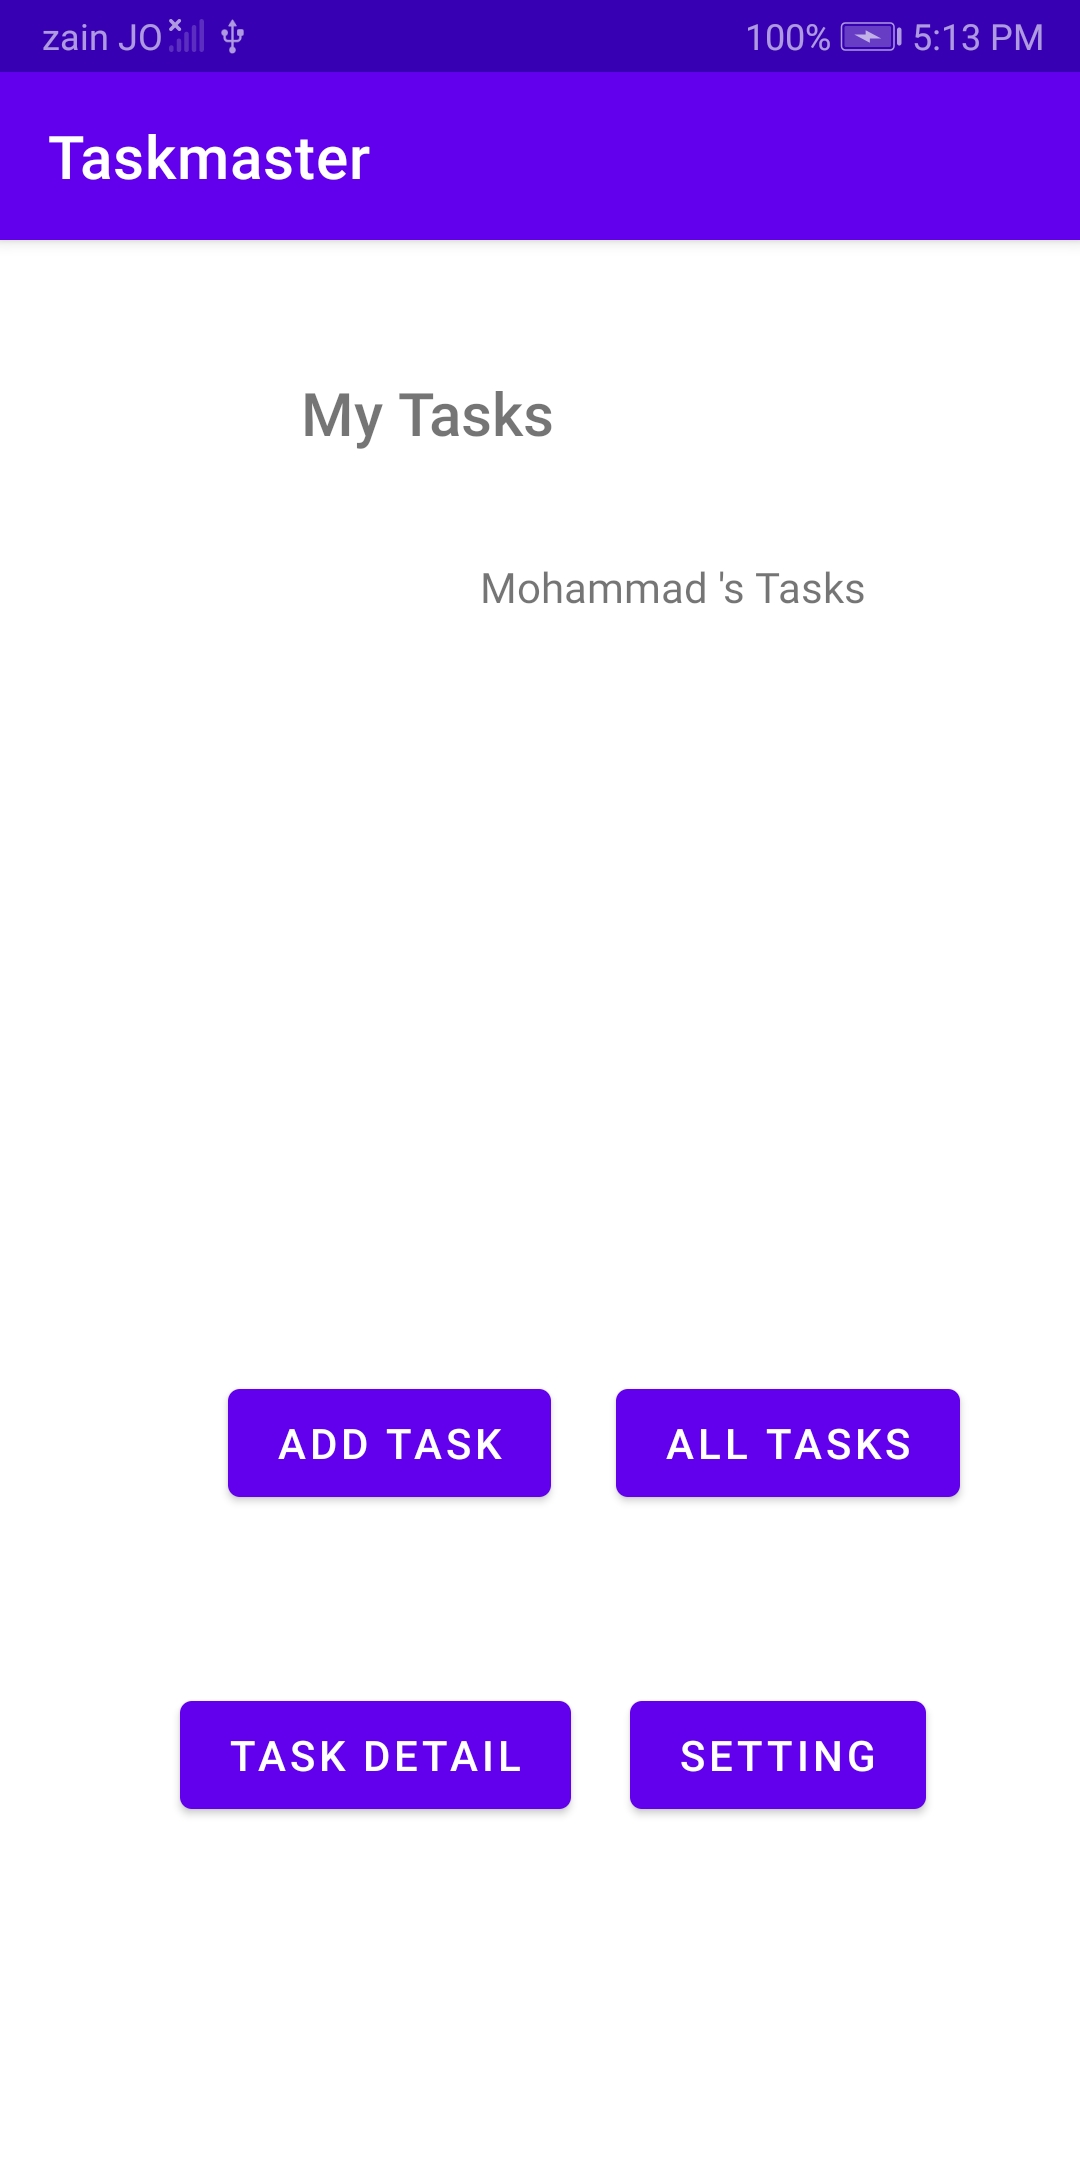
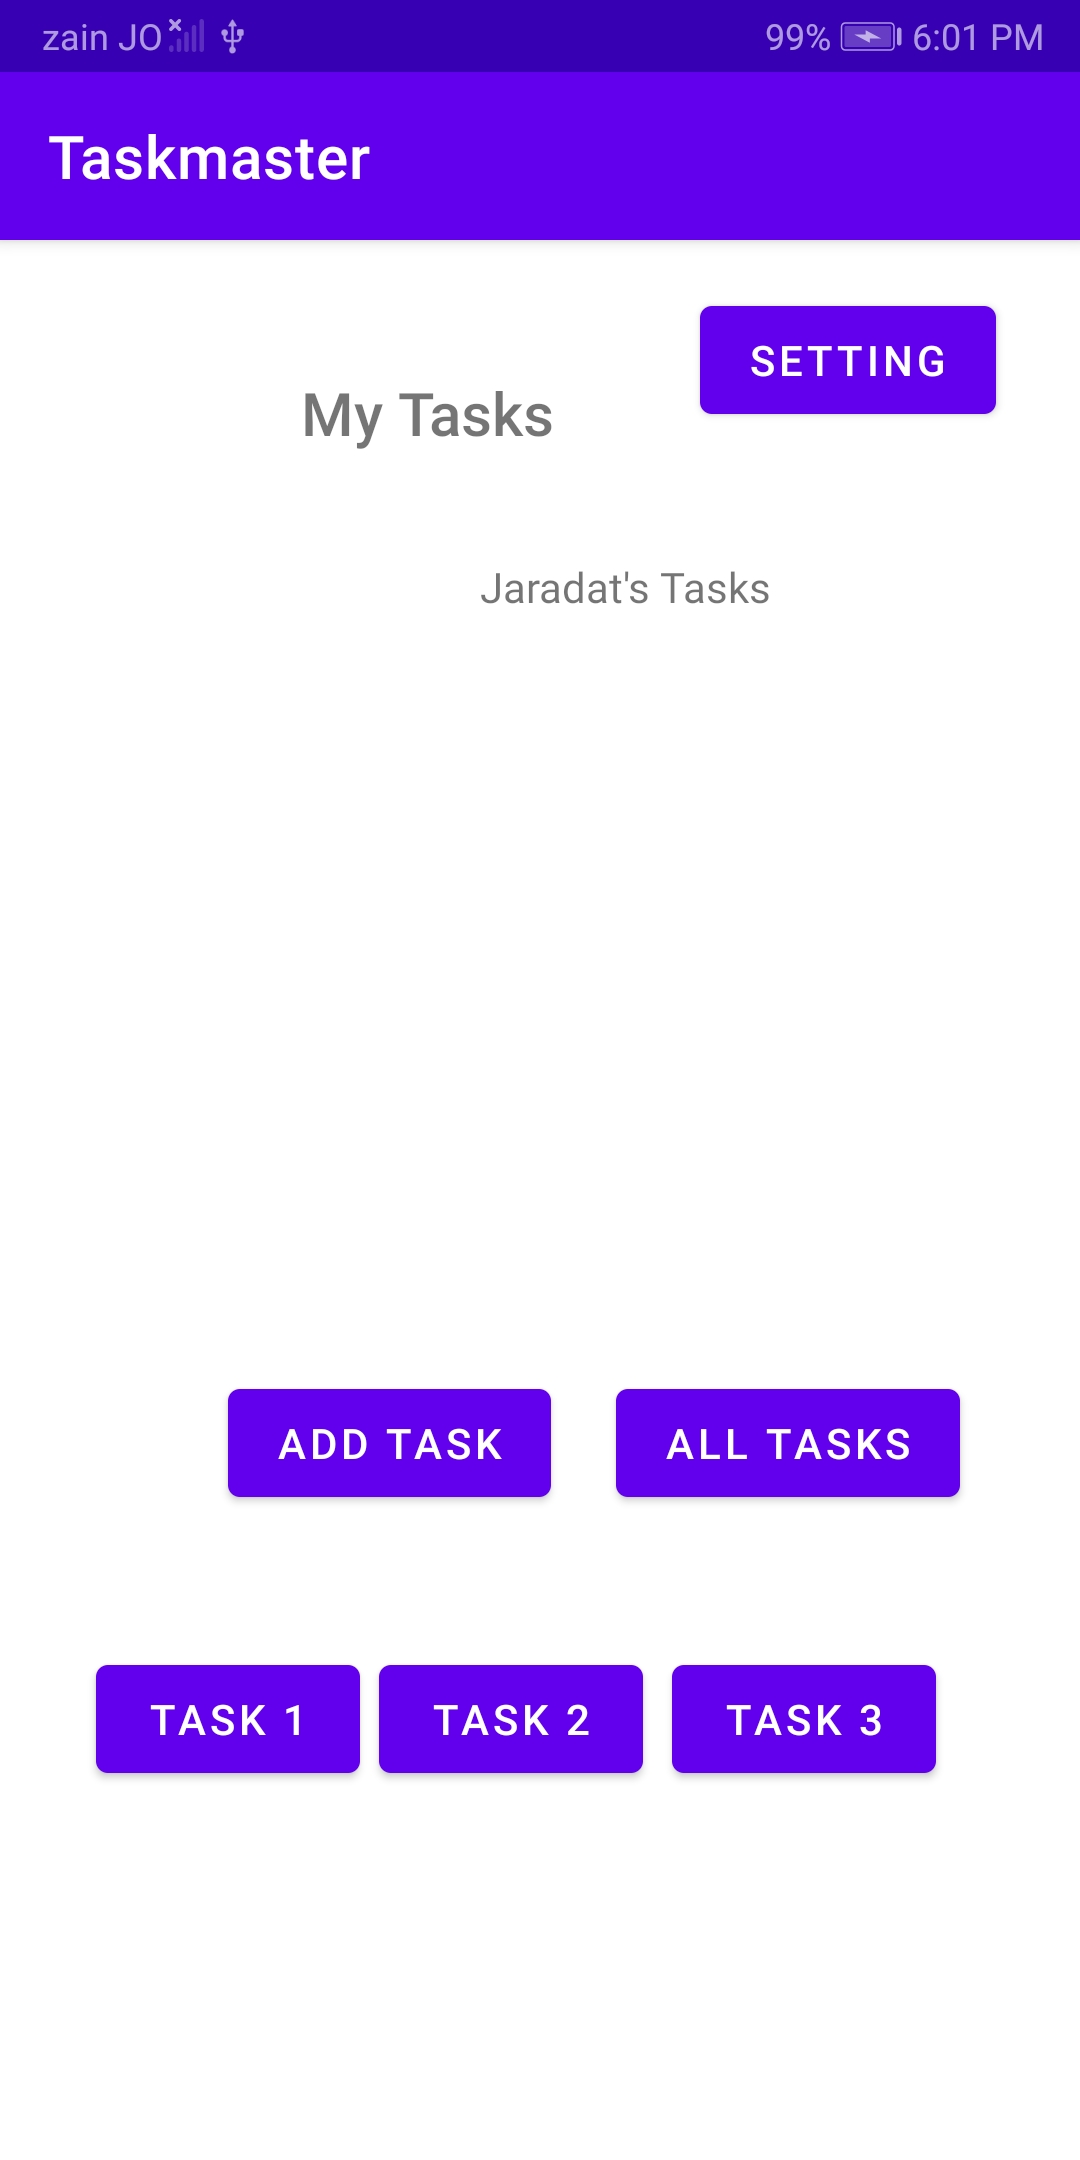
data to task master

diff --git a/app/src/main/java/com/example/taskmaster/MainActivity.java b/app/src/main/java/com/example/taskmaster/MainActivity.java
@@ -23,8 +23,14 @@ public class MainActivity extends AppCompatActivity {
         Button allTask = findViewById(R.id.allTask);
         allTask.setOnClickListener(getViewAllTask);
 
-        Button taskDetail = findViewById(R.id.taskDetails);
-        taskDetail.setOnClickListener(getViewTaskDetail);
+        Button taskDetail1 = findViewById(R.id.taskDetails1);
+        taskDetail1.setOnClickListener(getViewTaskDetail1);
+
+        Button taskDetail2 = findViewById(R.id.taskDetails2);
+        taskDetail2.setOnClickListener(getViewTaskDetail2);
+
+        Button taskDetail3 = findViewById(R.id.taskDetails3);
+        taskDetail3.setOnClickListener(getViewTaskDetail3);
 
         Button setting = findViewById(R.id.setting);
         setting.setOnClickListener(getViewSetting);
@@ -41,19 +47,43 @@ public class MainActivity extends AppCompatActivity {
         userNameText.setText(username);
     }
 
-    private final View.OnClickListener getViewTaskDetail= new View.OnClickListener() {
+    private final View.OnClickListener getViewTaskDetail1 = new View.OnClickListener() {
         @Override
         public void onClick(View v) {
-
-            Intent taskDetailIntent = new Intent(getBaseContext(),TaskDetails.class);
+            Button task1 = findViewById(R.id.taskDetails1);
+            String taskName = task1.getText().toString();
+            Intent taskDetailIntent = new Intent(getBaseContext(), TaskDetails.class);
+            taskDetailIntent.putExtra("taskName", taskName);
             startActivity(taskDetailIntent);
         }
     };
 
-    private final View.OnClickListener getViewSetting= new View.OnClickListener() {
+    private final View.OnClickListener getViewTaskDetail2 = new View.OnClickListener() {
         @Override
         public void onClick(View v) {
-            Intent settingIntent = new Intent(getBaseContext(),Setting.class);
+            Button task1 = findViewById(R.id.taskDetails2);
+            String taskName = task1.getText().toString();
+            Intent taskDetailIntent = new Intent(getBaseContext(), TaskDetails.class);
+            taskDetailIntent.putExtra("taskName", taskName);
+            startActivity(taskDetailIntent);
+        }
+    };
+
+    private final View.OnClickListener getViewTaskDetail3 = new View.OnClickListener() {
+        @Override
+        public void onClick(View v) {
+            Button task1 = findViewById(R.id.taskDetails3);
+            String taskName = task1.getText().toString();
+            Intent taskDetailIntent = new Intent(getBaseContext(), TaskDetails.class);
+            taskDetailIntent.putExtra("taskName", taskName);
+            startActivity(taskDetailIntent);
+        }
+    };
+
+    private final View.OnClickListener getViewSetting = new View.OnClickListener() {
+        @Override
+        public void onClick(View v) {
+            Intent settingIntent = new Intent(getBaseContext(), Setting.class);
             startActivity(settingIntent);
         }
     };
@@ -61,7 +91,7 @@ public class MainActivity extends AppCompatActivity {
     private final View.OnClickListener getViewAddTask = new View.OnClickListener() {
         @Override
         public void onClick(View v) {
-            Intent addTaskIntent = new Intent(getBaseContext(),AddTask.class);
+            Intent addTaskIntent = new Intent(getBaseContext(), AddTask.class);
             startActivity(addTaskIntent);
         }
     };
@@ -69,7 +99,7 @@ public class MainActivity extends AppCompatActivity {
     private final View.OnClickListener getViewAllTask = new View.OnClickListener() {
         @Override
         public void onClick(View v) {
-            Intent allTaskIntent = new Intent(getBaseContext(),AllTasks.class);
+            Intent allTaskIntent = new Intent(getBaseContext(), AllTasks.class);
             startActivity(allTaskIntent);
         }
     };

diff --git a/app/src/main/java/com/example/taskmaster/AddTask.java b/app/src/main/java/com/example/taskmaster/AddTask.java
@@ -33,7 +33,7 @@ public class AddTask extends AppCompatActivity {
         public void onClick(View v) {
             String TaskName = ((EditText) findViewById(R.id.inputTaskTitle)).getText().toString();
             Intent taskDetailIntent = new Intent(getApplicationContext(),TaskDetails.class);
-            taskDetailIntent.putExtra("TaskName",TaskName);
+            taskDetailIntent.putExtra("taskName",TaskName);
             startActivity(taskDetailIntent);
             Toast.makeText(getApplicationContext(),"task was added",Toast.LENGTH_LONG).show();
 

diff --git a/app/src/main/java/com/example/taskmaster/TaskDetails.java b/app/src/main/java/com/example/taskmaster/TaskDetails.java
@@ -15,7 +15,7 @@ public class TaskDetails extends AppCompatActivity {
          Intent intent = getIntent();
         TextView taskTitle = findViewById(R.id.singleTaskTitle);
         if (intent.getExtras() != null) {
-            taskTitle.setText(intent.getExtras().get("TaskName").toString());
+            taskTitle.setText(intent.getExtras().get("taskName").toString());
         }
 
     }

diff --git a/README.md b/README.md
@@ -18,10 +18,12 @@ Screen Shots
 
 ![Main Activity](screenshots/lab-02/myTasks.jpg)
 
-![Add Tasks](screenshots/lab-02/addTask.jpg)
-
 ![Setting](screenshots/lab-02/setting.jpg)
 
-![Task Details](screenshots/lab-02/taskDetails.jpg)
-
 ![Main Activity after change username](screenshots/lab-02/myTaskAfterChangeUserName.jpg)
+
+![Task 1](screenshots/lab-02/task1.jpg)
+
+![Task 2](screenshots/lab-02/task2.jpg)
+
+![Task 3](screenshots/lab-02/task3.jpg)
